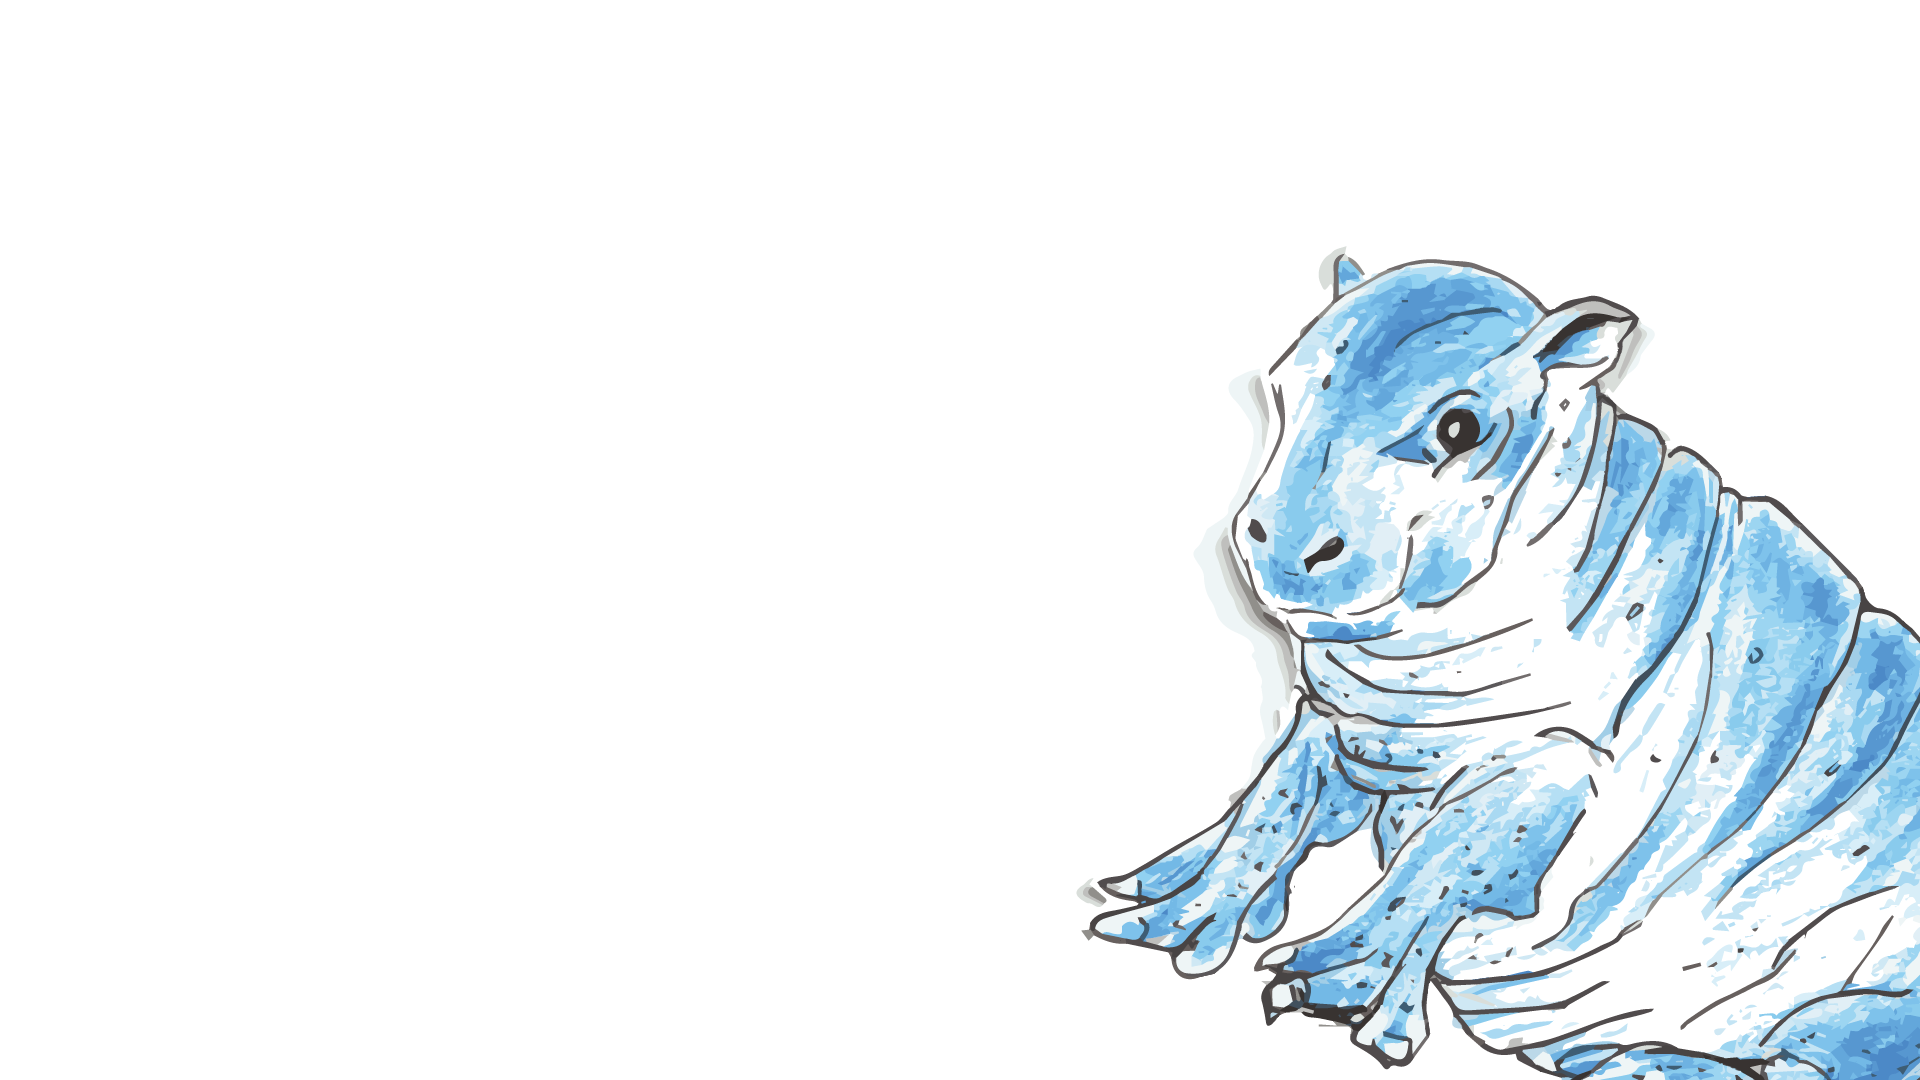
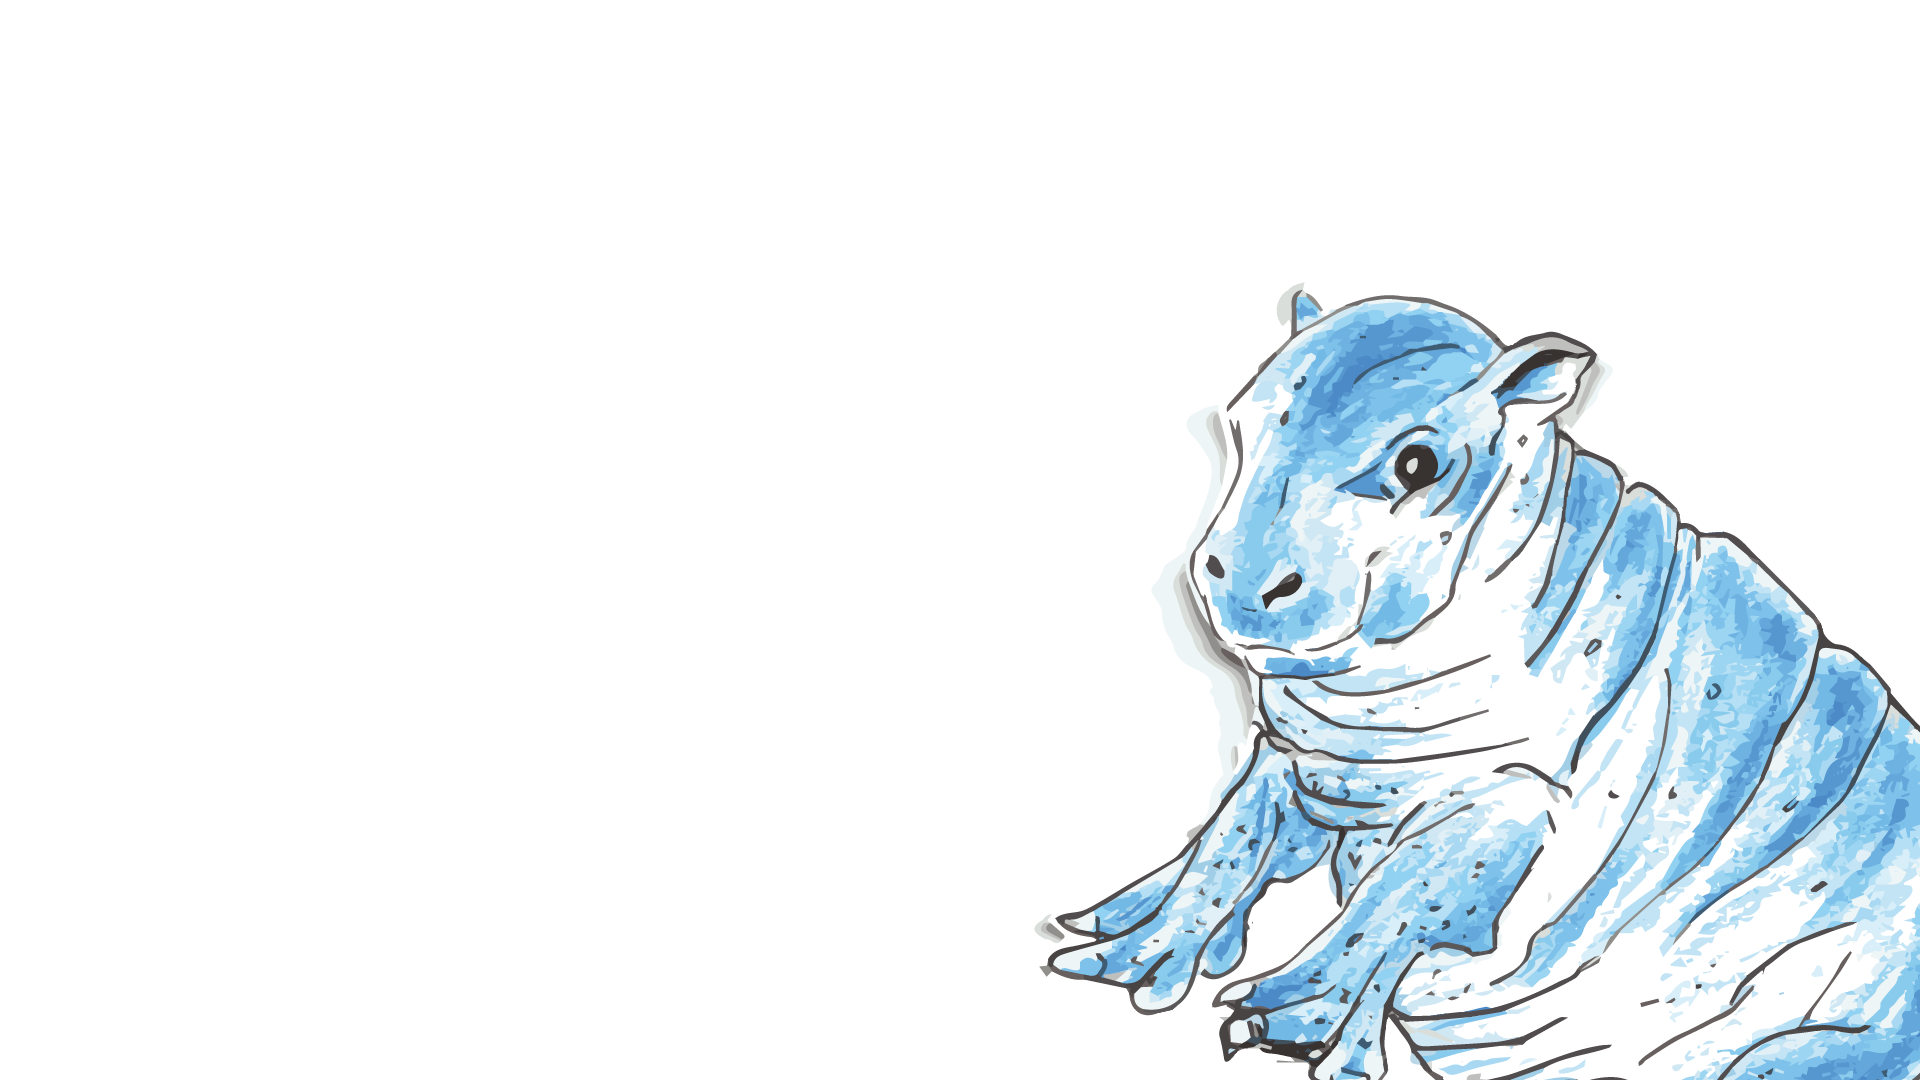
Revisions

Changed region(s): [[0.5312, 0.2139, 1.0, 1.0]]

diff --git a/geh.html b/geh.html
@@ -77,137 +77,99 @@
       <article class="project-content"></article>
       
       <div class="gallery-wrapper">
-        
+
         <article class="flex">          
-          <div class="project-detail">
-            <p>Website redesign: main page</p>
-            <p class="uppercase"><a href="https://foreverfox.github.io/geh/index.html" target="_blank">View demo site</a></p>
-          </div>
-          <div class="popup-gallery">
-              <figure class="project-preview">
-                <a href="img/gili-estlin-hirsch-site.png"><img title="Website Redesign" src="img/geh-main-thumb.png" alt="Gili Estlin Hirsch Website"></a>
-              </figure>
-          </div>  
+          <figure class="project-preview">
+            <img title="Website Redesign" src="img/gili-estlin-hirsch-site.png" alt="Gili Estlin Hirsch Website">
+            <figcaption class="project-detail">
+              <p>Website redesign: main page</p>
+              <p class="uppercase"><a href="https://foreverfox.github.io/geh/index.html" target="_blank">View demo site</a></p>
+            </figcaption>
+          </figure> 
         </article>
 
-        <article class="flex">          
-          <div class="project-detail">
-            <p>Original site for Gili Estlin Hirsch</p>
-            <p class="uppercase"><a href="https://web.archive.org/web/20170503122215/http://giliestlinhirsch.com/" target="_blank">Visit demo site (archived)</a></p>  
-          </div> 
-          <div class="popup-gallery">
-            <a href="img/geh-original-large.png">
-              <figure class="project-preview">
-                <img title="Old site" src="img/geh-original-sm.png" alt="Comparison of old site and site redesign">
-              </figure>
-            </a>
-          </div>                 
+        <article class="flex">           
+          <figure class="project-preview">
+            <img title="Old site" src="img/geh-original-large.png" alt="Comparison of old site and site redesign">
+            <figcaption class="project-detail">
+              <p>Original site for Gili Estlin Hirsch</p>
+              <p class="uppercase"><a href="https://web.archive.org/web/20170503122215/http://giliestlinhirsch.com/" target="_blank">Visit demo site (archived)</a></p> 
+            </figcaption> 
+          </figure>       
         </article>         
 
         <article class="flex">          
-          <div class="project-detail">
-            <p>Comparison of home page for original Gili Estlin Hirsch website (left) with Gili Estlin Hirsch website redesign (right)</p>  
-          </div>
-          <div class="popup-gallery">
-            <a href="img/geh-comparison-home.png">
-              <figure class="project-preview">
-                <img title="Comparison of old site and site redesign" src="img/geh-comparison-home-sm.png" alt="Comparison of old site and site redesign">
-              </figure>
-            </a>
-          </div>                    
+          <figure class="project-preview">
+            <img title="Comparison of old site and site redesign" src="img/geh-comparison-home.png" alt="Comparison of old site and site redesign">
+            <figcaption class="project-detail">
+              <p>Comparison of home page for original Gili Estlin Hirsch website (left) with Gili Estlin Hirsch website redesign (right)</p>  
+            </figcaption>  
+          </figure>            
         </article>         
 
         <article class="flex">          
-          <div class="project-detail">
-            <p>Comparison of about section for original Gili Estlin Hirsch website (left) with Gili Estlin Hirsch website redesign (right)</p>  
-          </div> 
-          <div class="popup-gallery">          
-            <a href="img/geh-comparison-about.png">
-              <figure class="project-preview">
-                <img title="Comparison of old site and site redesign" src="img/geh-comparison-about-sm.png" alt="Comparison of old site and site redesign">
-              </figure>
-            </a>
-          </div>                 
+          <figure class="project-preview">
+            <img title="Comparison of old site and site redesign" src="img/geh-comparison-about.png" alt="Comparison of old site and site redesign">
+            <figcaption class="project-detail">
+              <p>Comparison of about section for original Gili Estlin Hirsch website (left) with Gili Estlin Hirsch website redesign (right)</p>  
+             </figcaption> 
+          </figure>          
         </article> 
 
-        <article class="flex">          
-          <div class="project-detail">
-            <p>Comparison of poems section for original Gili Estlin Hirsch website (left) with Gili Estlin Hirsch website redesign (right)</p>  
-          </div>  
-          <div class="popup-gallery">
-            <a href="img/geh-comparison-poems.png">
-              <figure class="project-preview">
-                <img title="Comparison of old site and site redesign" src="img/geh-comparison-poems-sm.png" alt="Comparison of old site and site redesign">
-              </figure>
-            </a>
-          </div>                 
+        <article class="flex">            
+          <figure class="project-preview">
+            <img title="Comparison of old site and site redesign" src="img/geh-comparison-poems.png" alt="Comparison of old site and site redesign">
+            <figcaption class="project-detail">
+              <p>Comparison of poems section for original Gili Estlin Hirsch website (left) with Gili Estlin Hirsch website redesign (right)</p>  
+            </figcaption>   
+          </figure>           
         </article>         
 
-        <article class="flex">          
-          <div class="project-detail">
-            <p>Detail of logo design for Gili Estlin Hirsch</p>  
-          </div>   
-          <div class="popup-gallery">
-            <a href="img/ghlogo-alt.png">
-              <figure class="project-preview">
-                <img title="Logo Detail" src="img/ghlogo-alt.png" alt="Gili Estlin Hirsch logo design">
-              </figure>
-            </a>
-          </div>       
+        <article class="flex">             
+          <figure class="project-preview">
+            <img title="Logo Detail" src="img/ghlogo-alt.png" alt="Gili Estlin Hirsch logo design">
+            <figcaption class="project-detail">
+              <p>Detail of logo design for Gili Estlin Hirsch</p>  
+            </figcaption>
+          </figure>          
         </article>        
 
         <article class="flex">          
-          <div class="project-detail">
-            <p>Detail of branding: collage design (featuring original graphite drawing by Alex Ogden for <a href="anna.html"><em>Anna</em></a>)</p>
-          </div>
-          <div class="popup-gallery">
-            <a href="img/hero.png">
-              <figure class="project-preview">
-                <img title="Branding" src="img/hero.png">
-              </figure>
-            </a>
-          </div>
+          <figure class="project-preview">
+            <img title="Branding" src="img/hero.png">
+            <figcaption class="project-detail">
+              <p>Detail of branding: collage design (featuring original graphite drawing by Alex Ogden for <a href="anna.html"><em>Anna</em></a>)</p>
+            </figcaption>
+          </figure>
         </article>
 
         <article class="flex">          
-          <div class="project-detail">
-            <p>Moodboard</p>
-          </div>
-          <div class="popup-gallery">
-            <a href="img/geh-moodboard.png">
-              <figure class="project-preview">
-                <img title="Moodboard"src="img/geh-moodboard-thumb.png" alt="Moodboard for Gili Estlin Hirsch website">
-              </figure>
-            </a>
-          </div>           
+          <figure class="project-preview">
+            <img title="Moodboard"src="img/geh-moodboard.png" alt="Moodboard for Gili Estlin Hirsch website">
+            <figcaption class="project-detail">
+              <p>Moodboard</p>
+            </figcaption>
+          </figure>     
         </article>
 
         <article class="flex">         
-        <div class="project-detail">
-            <p>Early wireframe concept</p>
-            <p class="uppercase"><a href="https://foreverfox.github.io/geh/wireframe/index.html" target="_blank">View demo site</a></p>
-          </div>
-          <div class="popup-gallery">
-            <a href="img/wireframe.png">
-              <figure class="project-preview">
-                <img title="Wireframes" src="img/wireframe-sm.png">
-              </figure>
-            </a>
-          </div>
+          <figure class="project-preview">
+            <img title="Wireframes" src="img/wireframe.png">
+            <figcaption class="project-detail">
+              <p>Early wireframe concept</p>
+              <p class="uppercase"><a href="https://foreverfox.github.io/geh/wireframe/index.html" target="_blank">View demo site</a></p>
+            </figcaption>
+          </figure>
         </article>
 
         <article class="flex">          
-          <div class="project-detail">
-            <p>Gallery page for Gili Estlin Hirsch's <a href="bow.html" target="_blank"><em>Body of Work</em></a> project</p>
-            <p class="uppercase"><a href="https://foreverfox.github.io/geh/bow.html" target="_blank">View demo site</a></p>
-          </div>
-          <div class="popup-gallery">
-            <a href="img/bow-web.png">
-              <figure class="project-preview">
-                <img title="Body of Work Gallery" src="img/bow-sm.png">
-              </figure>
-            </a>
-          </div>
+          <figure class="project-preview">
+            <img title="Body of Work Gallery" src="img/bow-web.png"> 
+            <figcaption class="project-detail">
+              <p>Gallery page for Gili Estlin Hirsch's <a href="bow.html" target="_blank"><em>Body of Work</em></a> project</p>
+              <p class="uppercase"><a href="https://foreverfox.github.io/geh/bow.html" target="_blank">View demo site</a></p>
+            </figcaption>
+          </figure>
         </article>
 
         <article class="flex">

diff --git a/style.css b/style.css
@@ -70,18 +70,30 @@ a {
   text-align: center;
 }
 
-.main-page {
-  height: 100vh;
-  background-image: url(img/bg-fox.png);
+
+.main-page, .about-page {
   background-repeat: no-repeat;
   background-size: cover;
+  height: 100vh;
+}
+
+.main-page {
+  background-image: url(img/bg-main-mobile.png);
 }
 
 .about-page {
-  height: 100vh;
-  background-image: url(img/bg-about.png);
-  background-repeat: no-repeat;
-  background-size: cover; 
+  background-image: url(img/bg-about-mobile.png);
+}
+
+@media screen and (min-width: 1200px) {
+  .main-page {
+    background-image: url(img/bg-fox.png);
+  }
+
+  .about-page {
+    background-image: url(img/bg-about.png); 
+  }
+
 }
 
 .main-image {
@@ -234,7 +246,9 @@ a {
 }
 
 .project-detail {
-  width: 300px;
+  width: 50%;
+  float: right;
+  text-align: right;
 }
 
 .project-detail, .project-preview {
@@ -262,7 +276,7 @@ a {
 
 @media screen and (min-width: 1620px) {
   .project-preview {
-    width: 640px;
+    width: 960px;
   }
 }
 
@@ -437,7 +451,7 @@ a {
 
 @media screen and (min-width: 768px) {
   .about-content {
-    width: 50%;  
+    width: 40%;  
   }
 }
 
@@ -447,11 +461,7 @@ a {
   }  
 }
 
-@media screen and (min-width: 1024px) {
-  .about-content {
-    width: 33%;
-  }
-}
+
 
 .about-content img {
   max-width: 100%;
@@ -493,7 +503,7 @@ a {
   display: flex;
   flex-wrap: wrap;
   flex-direction: row;
-  justify-content: space-around;
+  justify-content: center;
 }
 
 .illustrations {

diff --git a/about.html b/about.html
@@ -66,7 +66,6 @@
     <section class="about-page">
       <article class="about-content">
         <h2 class="section-title">About</h2>
-
         <p>Alex Ogden is an illustrator and web designer. She earned her MA in graphic and web design from <a href="https://mcad.edu/" target="_blank">MCAD</a>. Alex is a passionate environmentalist and admirer of cats. Her favorite color is gray. She started Forever Fox Design in 2018.</p>
         <ul id="aboutSM" class="social-media">
           <li id="aboutGit"><a href="https://github.com/foreverfox" target="_blank"><i class="fab fa-github"></i></a></li>
